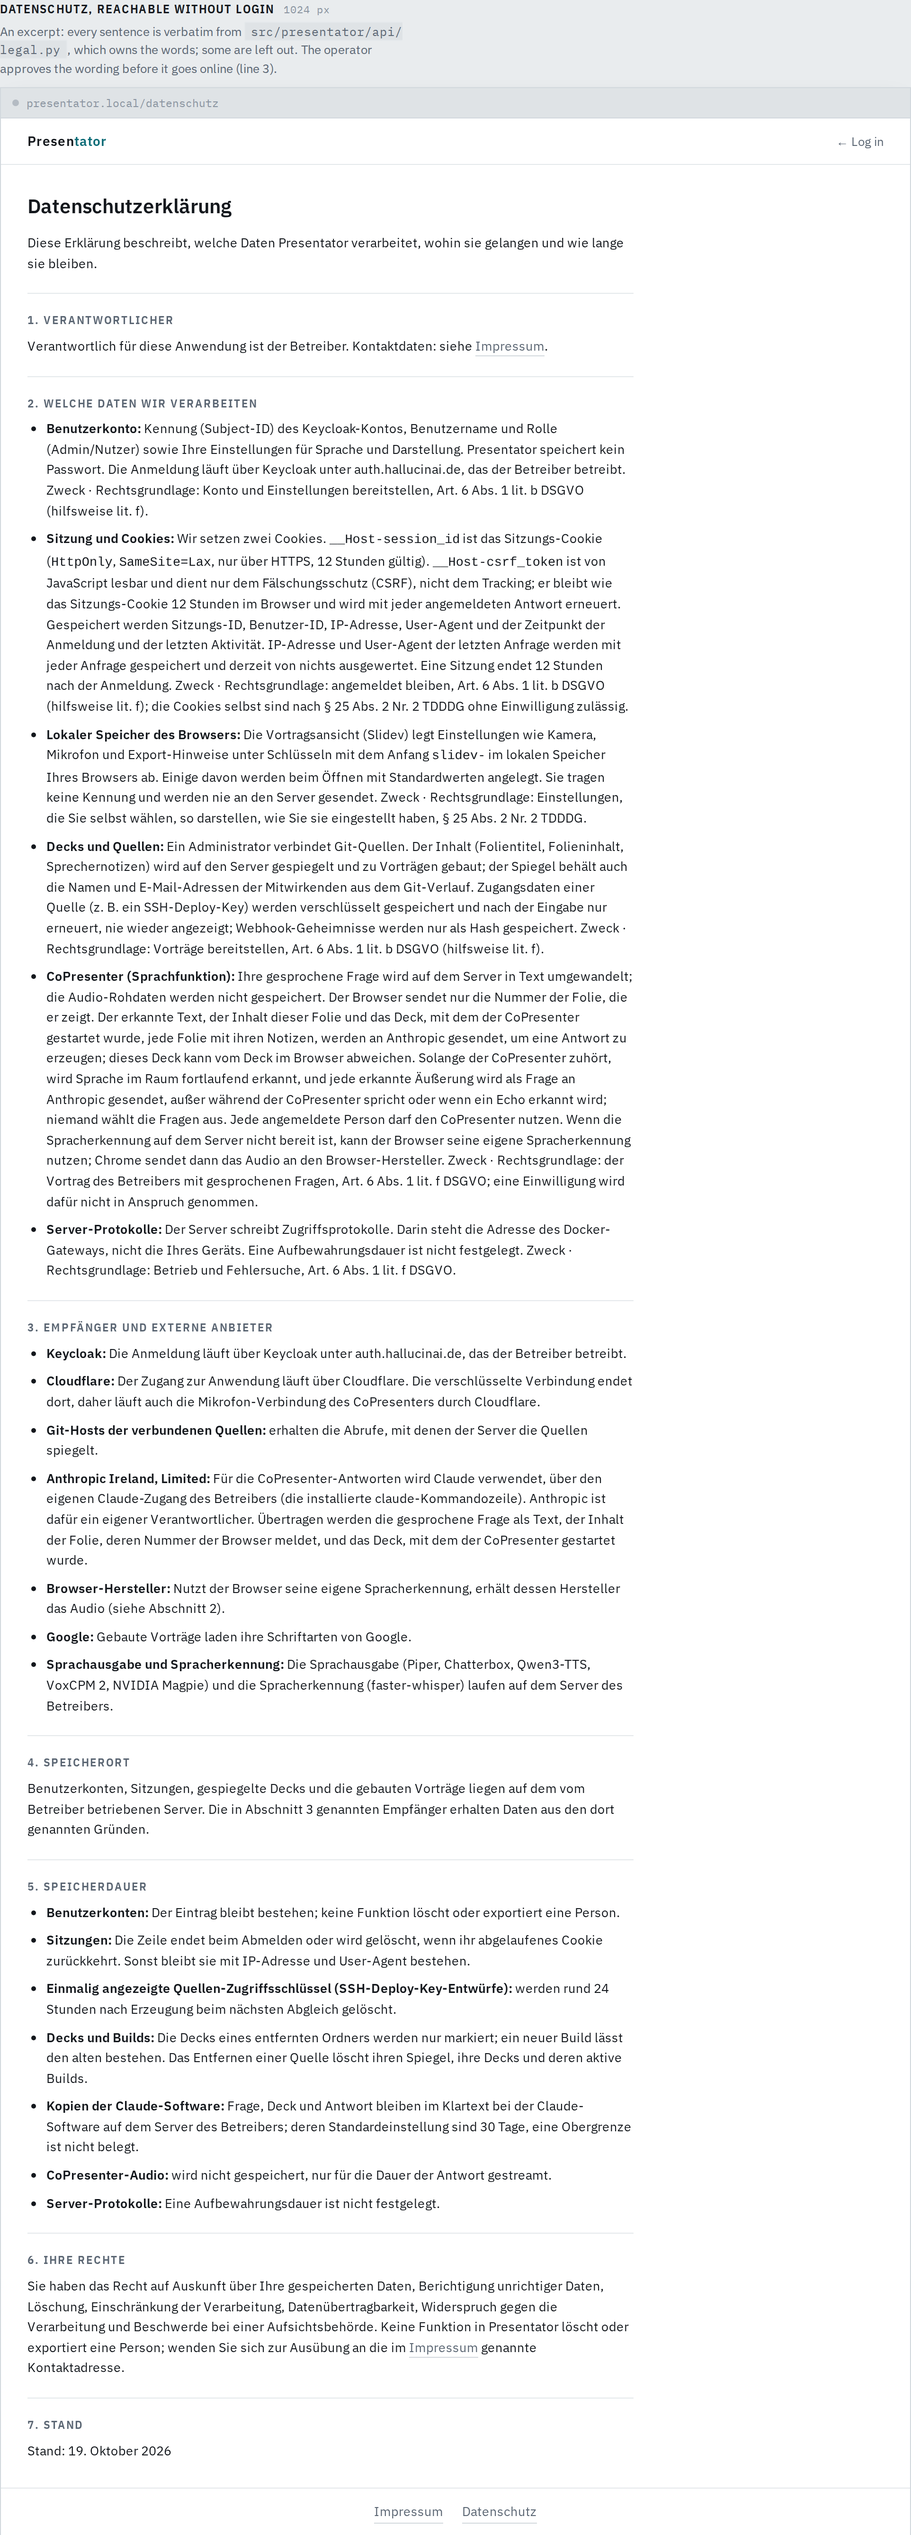
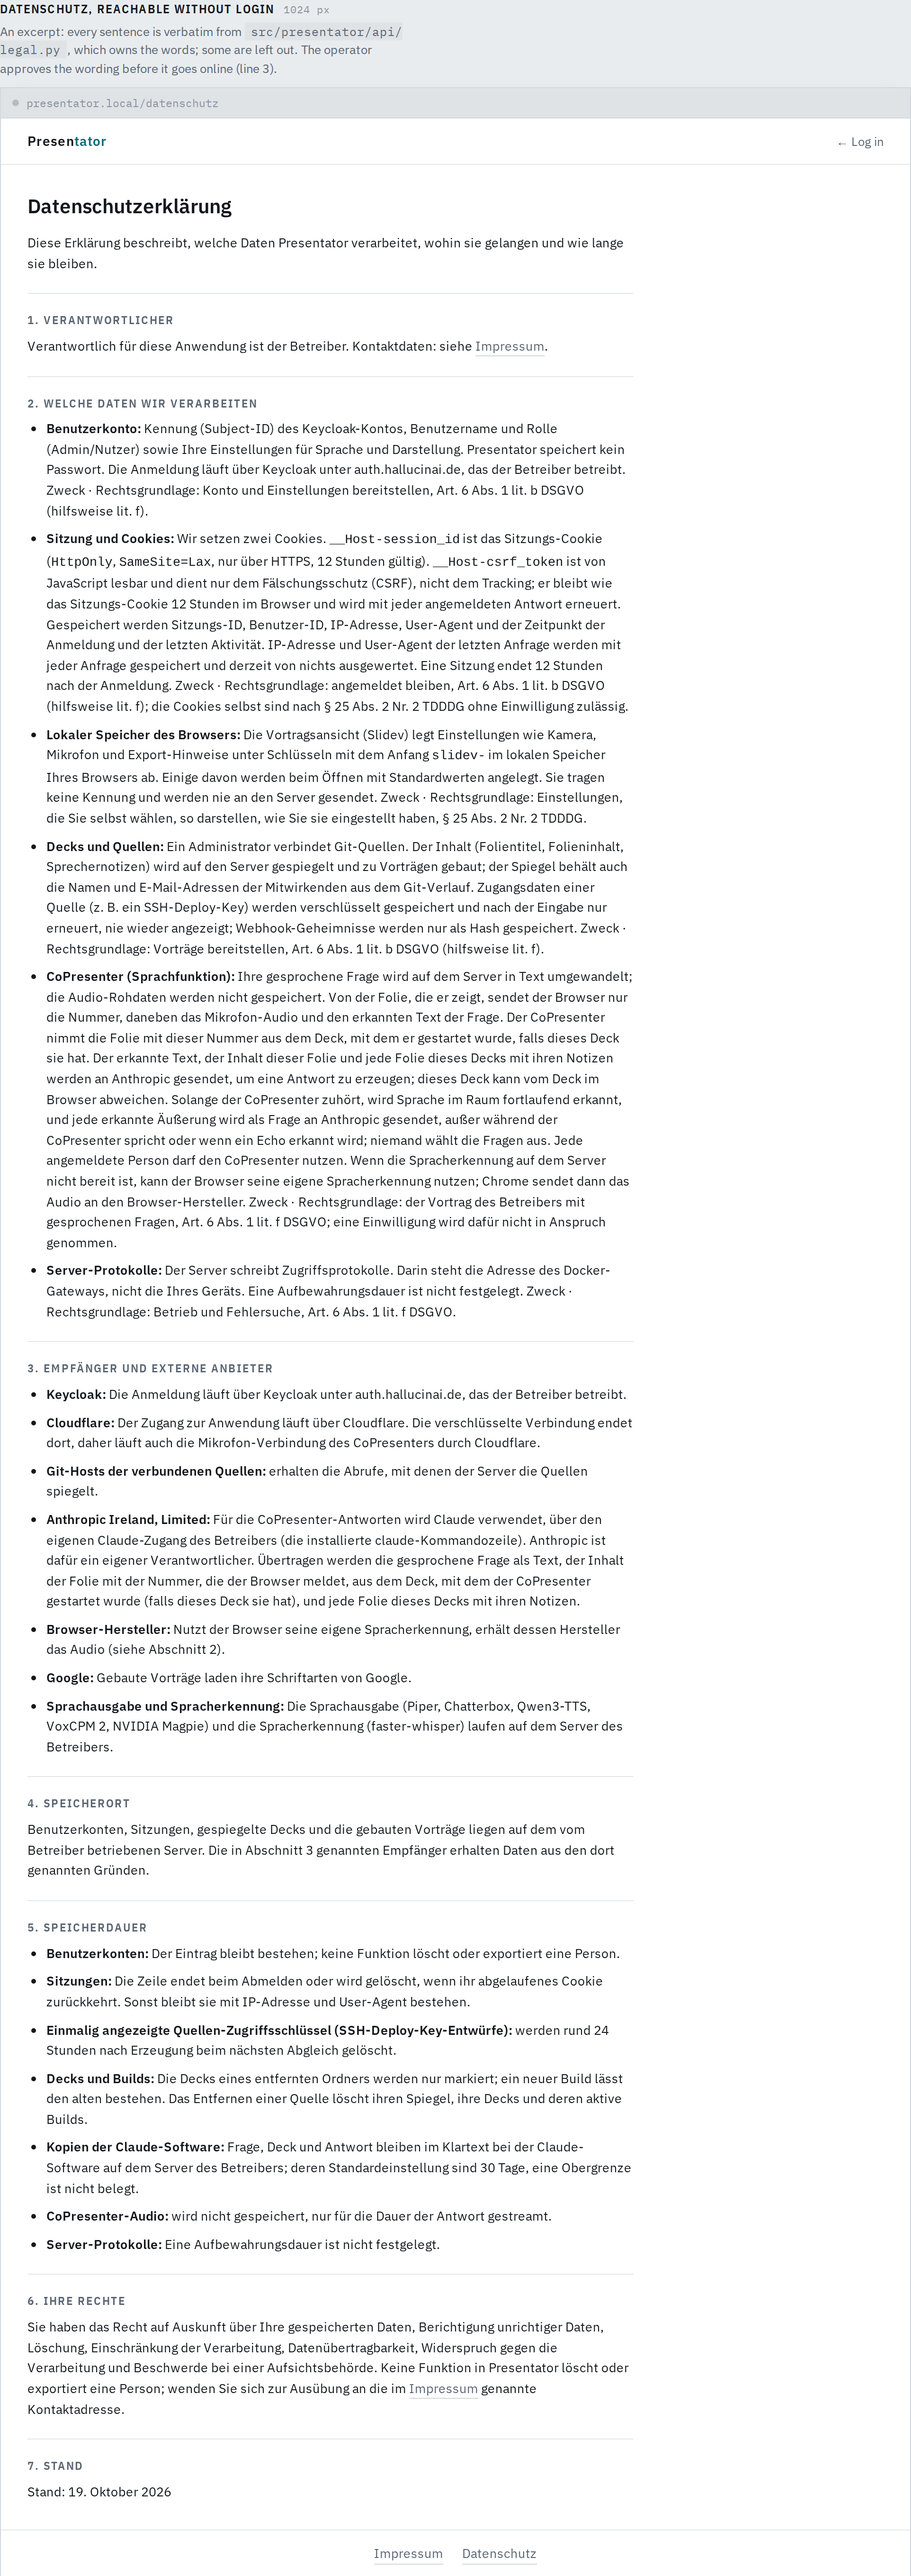
The Datenschutz says the browser sends only the slide number, and which deck the copresenter takes the slide from

Changed region(s): [[0.0, 0.0, 0.6861, 0.9677]]

diff --git a/docs/mockups/m0-lobby.html b/docs/mockups/m0-lobby.html
@@ -4301,7 +4301,7 @@ Cannot resolve import "./folien/03-fabric.md" from slides.md
                   <li><b>Sitzung und Cookies:</b> Wir setzen zwei Cookies. <code>__Host-session_id</code> ist das Sitzungs-Cookie (<code>HttpOnly</code>, <code>SameSite=Lax</code>, nur über HTTPS, 12 Stunden gültig). <code>__Host-csrf_token</code> ist von JavaScript lesbar und dient nur dem Fälschungsschutz (CSRF), nicht dem Tracking; er bleibt wie das Sitzungs-Cookie 12 Stunden im Browser und wird mit jeder angemeldeten Antwort erneuert. Gespeichert werden Sitzungs-ID, Benutzer-ID, IP-Adresse, User-Agent und der Zeitpunkt der Anmeldung und der letzten Aktivität. IP-Adresse und User-Agent der letzten Anfrage werden mit jeder Anfrage gespeichert und derzeit von nichts ausgewertet. Eine Sitzung endet 12 Stunden nach der Anmeldung. Zweck · Rechtsgrundlage: angemeldet bleiben, Art. 6 Abs. 1 lit. b DSGVO (hilfsweise lit. f); die Cookies selbst sind nach § 25 Abs. 2 Nr. 2 TDDDG ohne Einwilligung zulässig.</li>
                   <li><b>Lokaler Speicher des Browsers:</b> Die Vortragsansicht (Slidev) legt Einstellungen wie Kamera, Mikrofon und Export-Hinweise unter Schlüsseln mit dem Anfang <code>slidev-</code> im lokalen Speicher Ihres Browsers ab. Einige davon werden beim Öffnen mit Standardwerten angelegt. Sie tragen keine Kennung und werden nie an den Server gesendet. Zweck · Rechtsgrundlage: Einstellungen, die Sie selbst wählen, so darstellen, wie Sie sie eingestellt haben, § 25 Abs. 2 Nr. 2 TDDDG.</li>
                   <li><b>Decks und Quellen:</b> Ein Administrator verbindet Git-Quellen. Der Inhalt (Folientitel, Folieninhalt, Sprechernotizen) wird auf den Server gespiegelt und zu Vorträgen gebaut; der Spiegel behält auch die Namen und E-Mail-Adressen der Mitwirkenden aus dem Git-Verlauf. Zugangsdaten einer Quelle (z. B. ein SSH-Deploy-Key) werden verschlüsselt gespeichert und nach der Eingabe nur erneuert, nie wieder angezeigt; Webhook-Geheimnisse werden nur als Hash gespeichert. Zweck · Rechtsgrundlage: Vorträge bereitstellen, Art. 6 Abs. 1 lit. b DSGVO (hilfsweise lit. f).</li>
-                  <li><b>CoPresenter (Sprachfunktion):</b> Ihre gesprochene Frage wird auf dem Server in Text umgewandelt; die Audio-Rohdaten werden nicht gespeichert. Der Browser sendet nur die Nummer der Folie, die er zeigt. Der erkannte Text, der Inhalt dieser Folie und das Deck, mit dem der CoPresenter gestartet wurde, jede Folie mit ihren Notizen, werden an Anthropic gesendet, um eine Antwort zu erzeugen; dieses Deck kann vom Deck im Browser abweichen. Solange der CoPresenter zuhört, wird Sprache im Raum fortlaufend erkannt, und jede erkannte Äußerung wird als Frage an Anthropic gesendet, außer während der CoPresenter spricht oder wenn ein Echo erkannt wird; niemand wählt die Fragen aus. Jede angemeldete Person darf den CoPresenter nutzen. Wenn die Spracherkennung auf dem Server nicht bereit ist, kann der Browser seine eigene Spracherkennung nutzen; Chrome sendet dann das Audio an den Browser-Hersteller. Zweck · Rechtsgrundlage: der Vortrag des Betreibers mit gesprochenen Fragen, Art. 6 Abs. 1 lit. f DSGVO; eine Einwilligung wird dafür nicht in Anspruch genommen.</li>
+                  <li><b>CoPresenter (Sprachfunktion):</b> Ihre gesprochene Frage wird auf dem Server in Text umgewandelt; die Audio-Rohdaten werden nicht gespeichert. Von der Folie, die er zeigt, sendet der Browser nur die Nummer, daneben das Mikrofon-Audio und den erkannten Text der Frage. Der CoPresenter nimmt die Folie mit dieser Nummer aus dem Deck, mit dem er gestartet wurde, falls dieses Deck sie hat. Der erkannte Text, der Inhalt dieser Folie und jede Folie dieses Decks mit ihren Notizen werden an Anthropic gesendet, um eine Antwort zu erzeugen; dieses Deck kann vom Deck im Browser abweichen. Solange der CoPresenter zuhört, wird Sprache im Raum fortlaufend erkannt, und jede erkannte Äußerung wird als Frage an Anthropic gesendet, außer während der CoPresenter spricht oder wenn ein Echo erkannt wird; niemand wählt die Fragen aus. Jede angemeldete Person darf den CoPresenter nutzen. Wenn die Spracherkennung auf dem Server nicht bereit ist, kann der Browser seine eigene Spracherkennung nutzen; Chrome sendet dann das Audio an den Browser-Hersteller. Zweck · Rechtsgrundlage: der Vortrag des Betreibers mit gesprochenen Fragen, Art. 6 Abs. 1 lit. f DSGVO; eine Einwilligung wird dafür nicht in Anspruch genommen.</li>
                   <li><b>Server-Protokolle:</b> Der Server schreibt Zugriffsprotokolle. Darin steht die Adresse des Docker-Gateways, nicht die Ihres Geräts. Eine Aufbewahrungsdauer ist nicht festgelegt. Zweck · Rechtsgrundlage: Betrieb und Fehlersuche, Art. 6 Abs. 1 lit. f DSGVO.</li>
                 </ul>
               </section>
@@ -4311,7 +4311,7 @@ Cannot resolve import "./folien/03-fabric.md" from slides.md
                   <li><b>Keycloak:</b> Die Anmeldung läuft über Keycloak unter auth.hallucinai.de, das der Betreiber betreibt.</li>
                   <li><b>Cloudflare:</b> Der Zugang zur Anwendung läuft über Cloudflare. Die verschlüsselte Verbindung endet dort, daher läuft auch die Mikrofon-Verbindung des CoPresenters durch Cloudflare.</li>
                   <li><b>Git-Hosts der verbundenen Quellen:</b> erhalten die Abrufe, mit denen der Server die Quellen spiegelt.</li>
-                  <li><b>Anthropic Ireland, Limited:</b> Für die CoPresenter-Antworten wird Claude verwendet, über den eigenen Claude-Zugang des Betreibers (die installierte claude-Kommandozeile). Anthropic ist dafür ein eigener Verantwortlicher. Übertragen werden die gesprochene Frage als Text, der Inhalt der Folie, deren Nummer der Browser meldet, und das Deck, mit dem der CoPresenter gestartet wurde.</li>
+                  <li><b>Anthropic Ireland, Limited:</b> Für die CoPresenter-Antworten wird Claude verwendet, über den eigenen Claude-Zugang des Betreibers (die installierte claude-Kommandozeile). Anthropic ist dafür ein eigener Verantwortlicher. Übertragen werden die gesprochene Frage als Text, der Inhalt der Folie mit der Nummer, die der Browser meldet, aus dem Deck, mit dem der CoPresenter gestartet wurde (falls dieses Deck sie hat), und jede Folie dieses Decks mit ihren Notizen.</li>
                   <li><b>Browser-Hersteller:</b> Nutzt der Browser seine eigene Spracherkennung, erhält dessen Hersteller das Audio (siehe Abschnitt 2).</li>
                   <li><b>Google:</b> Gebaute Vorträge laden ihre Schriftarten von Google.</li>
                   <li><b>Sprachausgabe und Spracherkennung:</b> Die Sprachausgabe (Piper, Chatterbox, Qwen3-TTS, VoxCPM 2, NVIDIA Magpie) und die Spracherkennung (faster-whisper) laufen auf dem Server des Betreibers.</li>
@@ -4382,7 +4382,7 @@ Cannot resolve import "./folien/03-fabric.md" from slides.md
                   <li><b>Sitzung und Cookies:</b> Wir setzen zwei Cookies. <code>__Host-session_id</code> ist das Sitzungs-Cookie (<code>HttpOnly</code>, <code>SameSite=Lax</code>, nur über HTTPS, 12 Stunden gültig). <code>__Host-csrf_token</code> ist von JavaScript lesbar und dient nur dem Fälschungsschutz (CSRF), nicht dem Tracking; er bleibt wie das Sitzungs-Cookie 12 Stunden im Browser und wird mit jeder angemeldeten Antwort erneuert. IP-Adresse und User-Agent der letzten Anfrage werden mit jeder Anfrage gespeichert und derzeit von nichts ausgewertet. Eine Sitzung endet 12 Stunden nach der Anmeldung.</li>
                   <li><b>Lokaler Speicher des Browsers:</b> Die Vortragsansicht (Slidev) legt Einstellungen wie Kamera, Mikrofon und Export-Hinweise unter Schlüsseln mit dem Anfang <code>slidev-</code> im lokalen Speicher Ihres Browsers ab. Einige davon werden beim Öffnen mit Standardwerten angelegt. Sie tragen keine Kennung und werden nie an den Server gesendet.</li>
                   <li><b>Decks und Quellen:</b> Ein Administrator verbindet Git-Quellen. Webhook-Geheimnisse werden nur als Hash gespeichert.</li>
-                  <li><b>CoPresenter (Sprachfunktion):</b> Ihre gesprochene Frage wird auf dem Server in Text umgewandelt; die Audio-Rohdaten werden nicht gespeichert. Der Browser sendet nur die Nummer der Folie, die er zeigt. Solange der CoPresenter zuhört, wird Sprache im Raum fortlaufend erkannt, und jede erkannte Äußerung wird als Frage an Anthropic gesendet, außer während der CoPresenter spricht oder wenn ein Echo erkannt wird; niemand wählt die Fragen aus. Jede angemeldete Person darf den CoPresenter nutzen.</li>
+                  <li><b>CoPresenter (Sprachfunktion):</b> Ihre gesprochene Frage wird auf dem Server in Text umgewandelt; die Audio-Rohdaten werden nicht gespeichert. Von der Folie, die er zeigt, sendet der Browser nur die Nummer, daneben das Mikrofon-Audio und den erkannten Text der Frage. Solange der CoPresenter zuhört, wird Sprache im Raum fortlaufend erkannt, und jede erkannte Äußerung wird als Frage an Anthropic gesendet, außer während der CoPresenter spricht oder wenn ein Echo erkannt wird; niemand wählt die Fragen aus. Jede angemeldete Person darf den CoPresenter nutzen.</li>
                   <li><b>Server-Protokolle:</b> Der Server schreibt Zugriffsprotokolle. Darin steht die Adresse des Docker-Gateways, nicht die Ihres Geräts. Eine Aufbewahrungsdauer ist nicht festgelegt.</li>
                 </ul>
               </section>

diff --git a/src/presentator/api/legal.py b/src/presentator/api/legal.py
@@ -148,11 +148,14 @@ DATENSCHUTZ: Final = LegalDocument(
                     "CoPresenter (Sprachfunktion):",
                     "Ihre gesprochene Frage wird auf dem Server in Text "
                     "umgewandelt; die Audio-Rohdaten werden nicht gespeichert. "
-                    "Der Browser sendet nur die Nummer der Folie, die er zeigt. "
-                    "Der erkannte Text, der Inhalt dieser Folie und das Deck, "
-                    "mit dem der CoPresenter gestartet wurde, jede Folie mit "
-                    "ihren Notizen, werden an Anthropic gesendet, um eine "
-                    "Antwort zu erzeugen; dieses Deck kann vom Deck im Browser "
+                    "Von der Folie, die er zeigt, sendet der Browser nur die "
+                    "Nummer, daneben das Mikrofon-Audio und den erkannten Text "
+                    "der Frage. Der CoPresenter nimmt die Folie mit dieser "
+                    "Nummer aus dem Deck, mit dem er gestartet wurde, falls "
+                    "dieses Deck sie hat. Der erkannte Text, der Inhalt dieser "
+                    "Folie und jede Folie dieses Decks mit ihren Notizen "
+                    "werden an Anthropic gesendet, um eine Antwort zu "
+                    "erzeugen; dieses Deck kann vom Deck im Browser "
                     "abweichen. Solange der CoPresenter zuhört, wird Sprache im "
                     "Raum fortlaufend erkannt, und jede erkannte Äußerung wird "
                     "als Frage an Anthropic gesendet, außer während der "
@@ -203,8 +206,10 @@ DATENSCHUTZ: Final = LegalDocument(
                     "den eigenen Claude-Zugang des Betreibers (die installierte "
                     "claude-Kommandozeile). Anthropic ist dafür ein eigener "
                     "Verantwortlicher. Übertragen werden die gesprochene Frage "
-                    "als Text, der Inhalt der Folie, deren Nummer der Browser meldet, und "
-                    "das Deck, mit dem der CoPresenter gestartet wurde.",
+                    "als Text, der Inhalt der Folie mit der Nummer, die der Browser "
+                    "meldet, aus dem Deck, mit dem der CoPresenter gestartet wurde "
+                    "(falls dieses Deck sie hat), und jede Folie dieses Decks mit "
+                    "ihren Notizen.",
                 ),
                 _point(
                     "Browser-Hersteller:",
